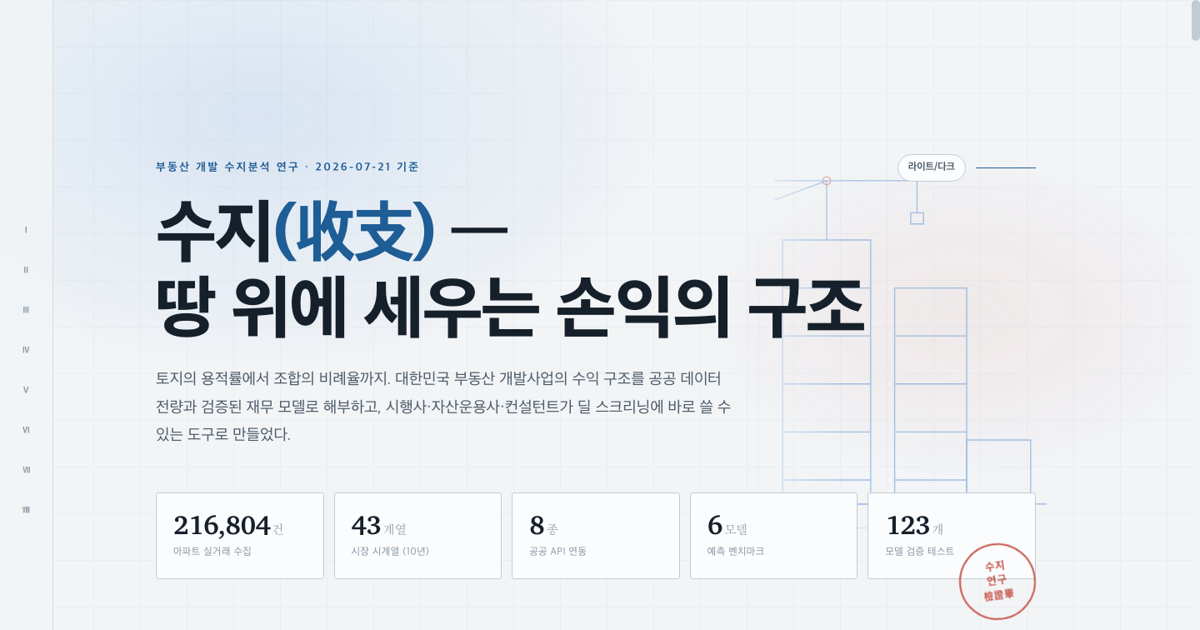
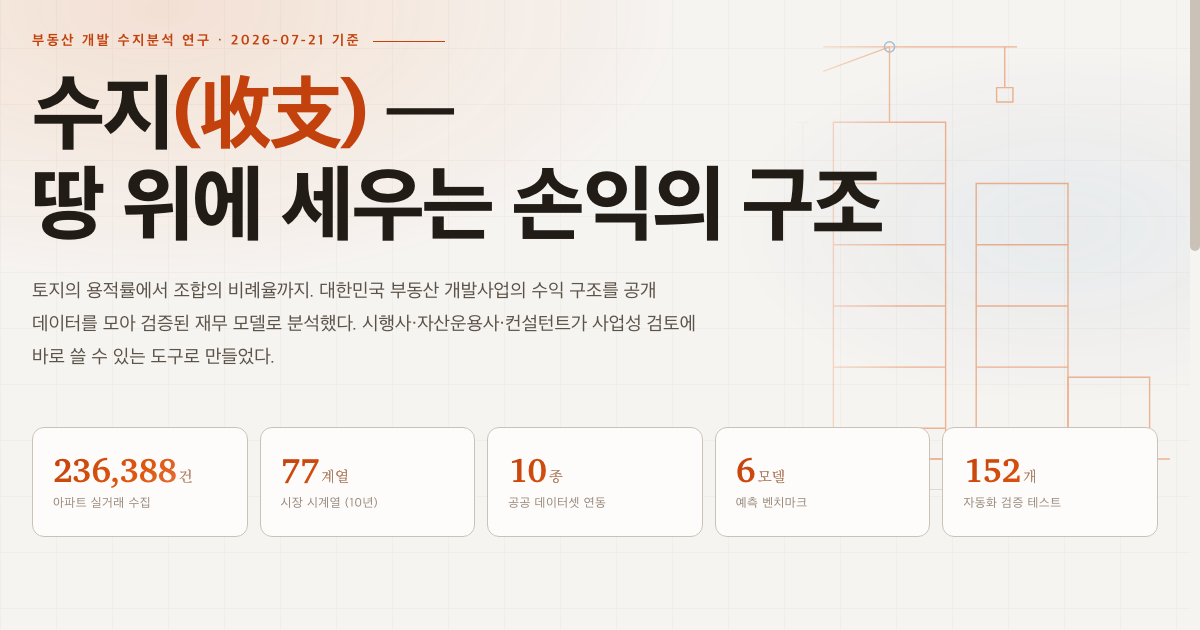
fix: 링크드인 미리보기 복구 — ①og 이미지 UA 개방(빈UA·일반UA 403→200, 링크 페처 이미지 접근) ②og.png 최신 디자인 재생성(주황·236,388/152 등) ③og:image ?v=2 캐시버스트

diff --git a/site/static/_worker.js b/site/static/_worker.js
@@ -12,6 +12,15 @@ const ALLOW = ["linkedinbot", "twitterbot", "facebookexternalhit", "slackbot",
 export default {
   async fetch(request, env) {
     const ua = (request.headers.get("user-agent") || "").toLowerCase();
+    // 정적 이미지(og·파비콘 등)는 UA 관계없이 개방 — 링크 미리보기 페처가
+    // LinkedInBot 외 UA로 이미지를 가져와도 카드가 생성되게 한다.
+    // (보호 대상은 HTML 콘텐츠·코드이지 이미지가 아님)
+    if (/\.(png|jpe?g|gif|webp|svg|ico)$/i.test(new URL(request.url).pathname)) {
+      const img = await env.ASSETS.fetch(request);
+      const ih = new Headers(img.headers);
+      ih.set("X-Content-Type-Options", "nosniff");
+      return new Response(img.body, { status: img.status, headers: ih });
+    }
     // 차단 토큰이 있으면 무조건 차단 — allow 토큰을 섞어 붙인 우회("Slackbot GPTBot") 방지.
     // ALLOW는 향후 BLOCK에 일반 토큰이 추가될 때 미리보기 봇을 구제하는 목적의 목록으로 유지.
     const blockHit = BLOCK.some(b => ua.includes(b));

diff --git a/site/index.template.html b/site/index.template.html
@@ -6,8 +6,8 @@
 <meta property="og:url" content="https://yooooonjae.pages.dev/">
 <meta property="og:title" content="수지(收支) — 대한민국 부동산 개발의 손익 구조">
 <meta property="og:description" content="전국 시장 데이터 · 4모드 수지 계산기 · 6모델 예측 벤치마크 — 부동산 개발 수지분석 연구">
-<meta property="og:image" content="https://yooooonjae.pages.dev/og.png">
-<meta property="og:image:secure_url" content="https://yooooonjae.pages.dev/og.png">
+<meta property="og:image" content="https://yooooonjae.pages.dev/og.png?v=2">
+<meta property="og:image:secure_url" content="https://yooooonjae.pages.dev/og.png?v=2">
 <meta property="og:image:type" content="image/png">
 <meta property="og:image:width" content="1200">
 <meta property="og:image:height" content="630">
@@ -15,7 +15,7 @@
 <meta name="twitter:card" content="summary_large_image">
 <meta name="twitter:title" content="수지(收支) — 대한민국 부동산 개발의 손익 구조">
 <meta name="twitter:description" content="전국 시장 데이터 · 4모드 수지 계산기 · 6모델 예측 벤치마크">
-<meta name="twitter:image" content="https://yooooonjae.pages.dev/og.png">
+<meta name="twitter:image" content="https://yooooonjae.pages.dev/og.png?v=2">
 <title>수지(收支) — 대한민국 부동산 개발의 손익 구조</title>
 <style>
 {{CSS:tokens.css}}